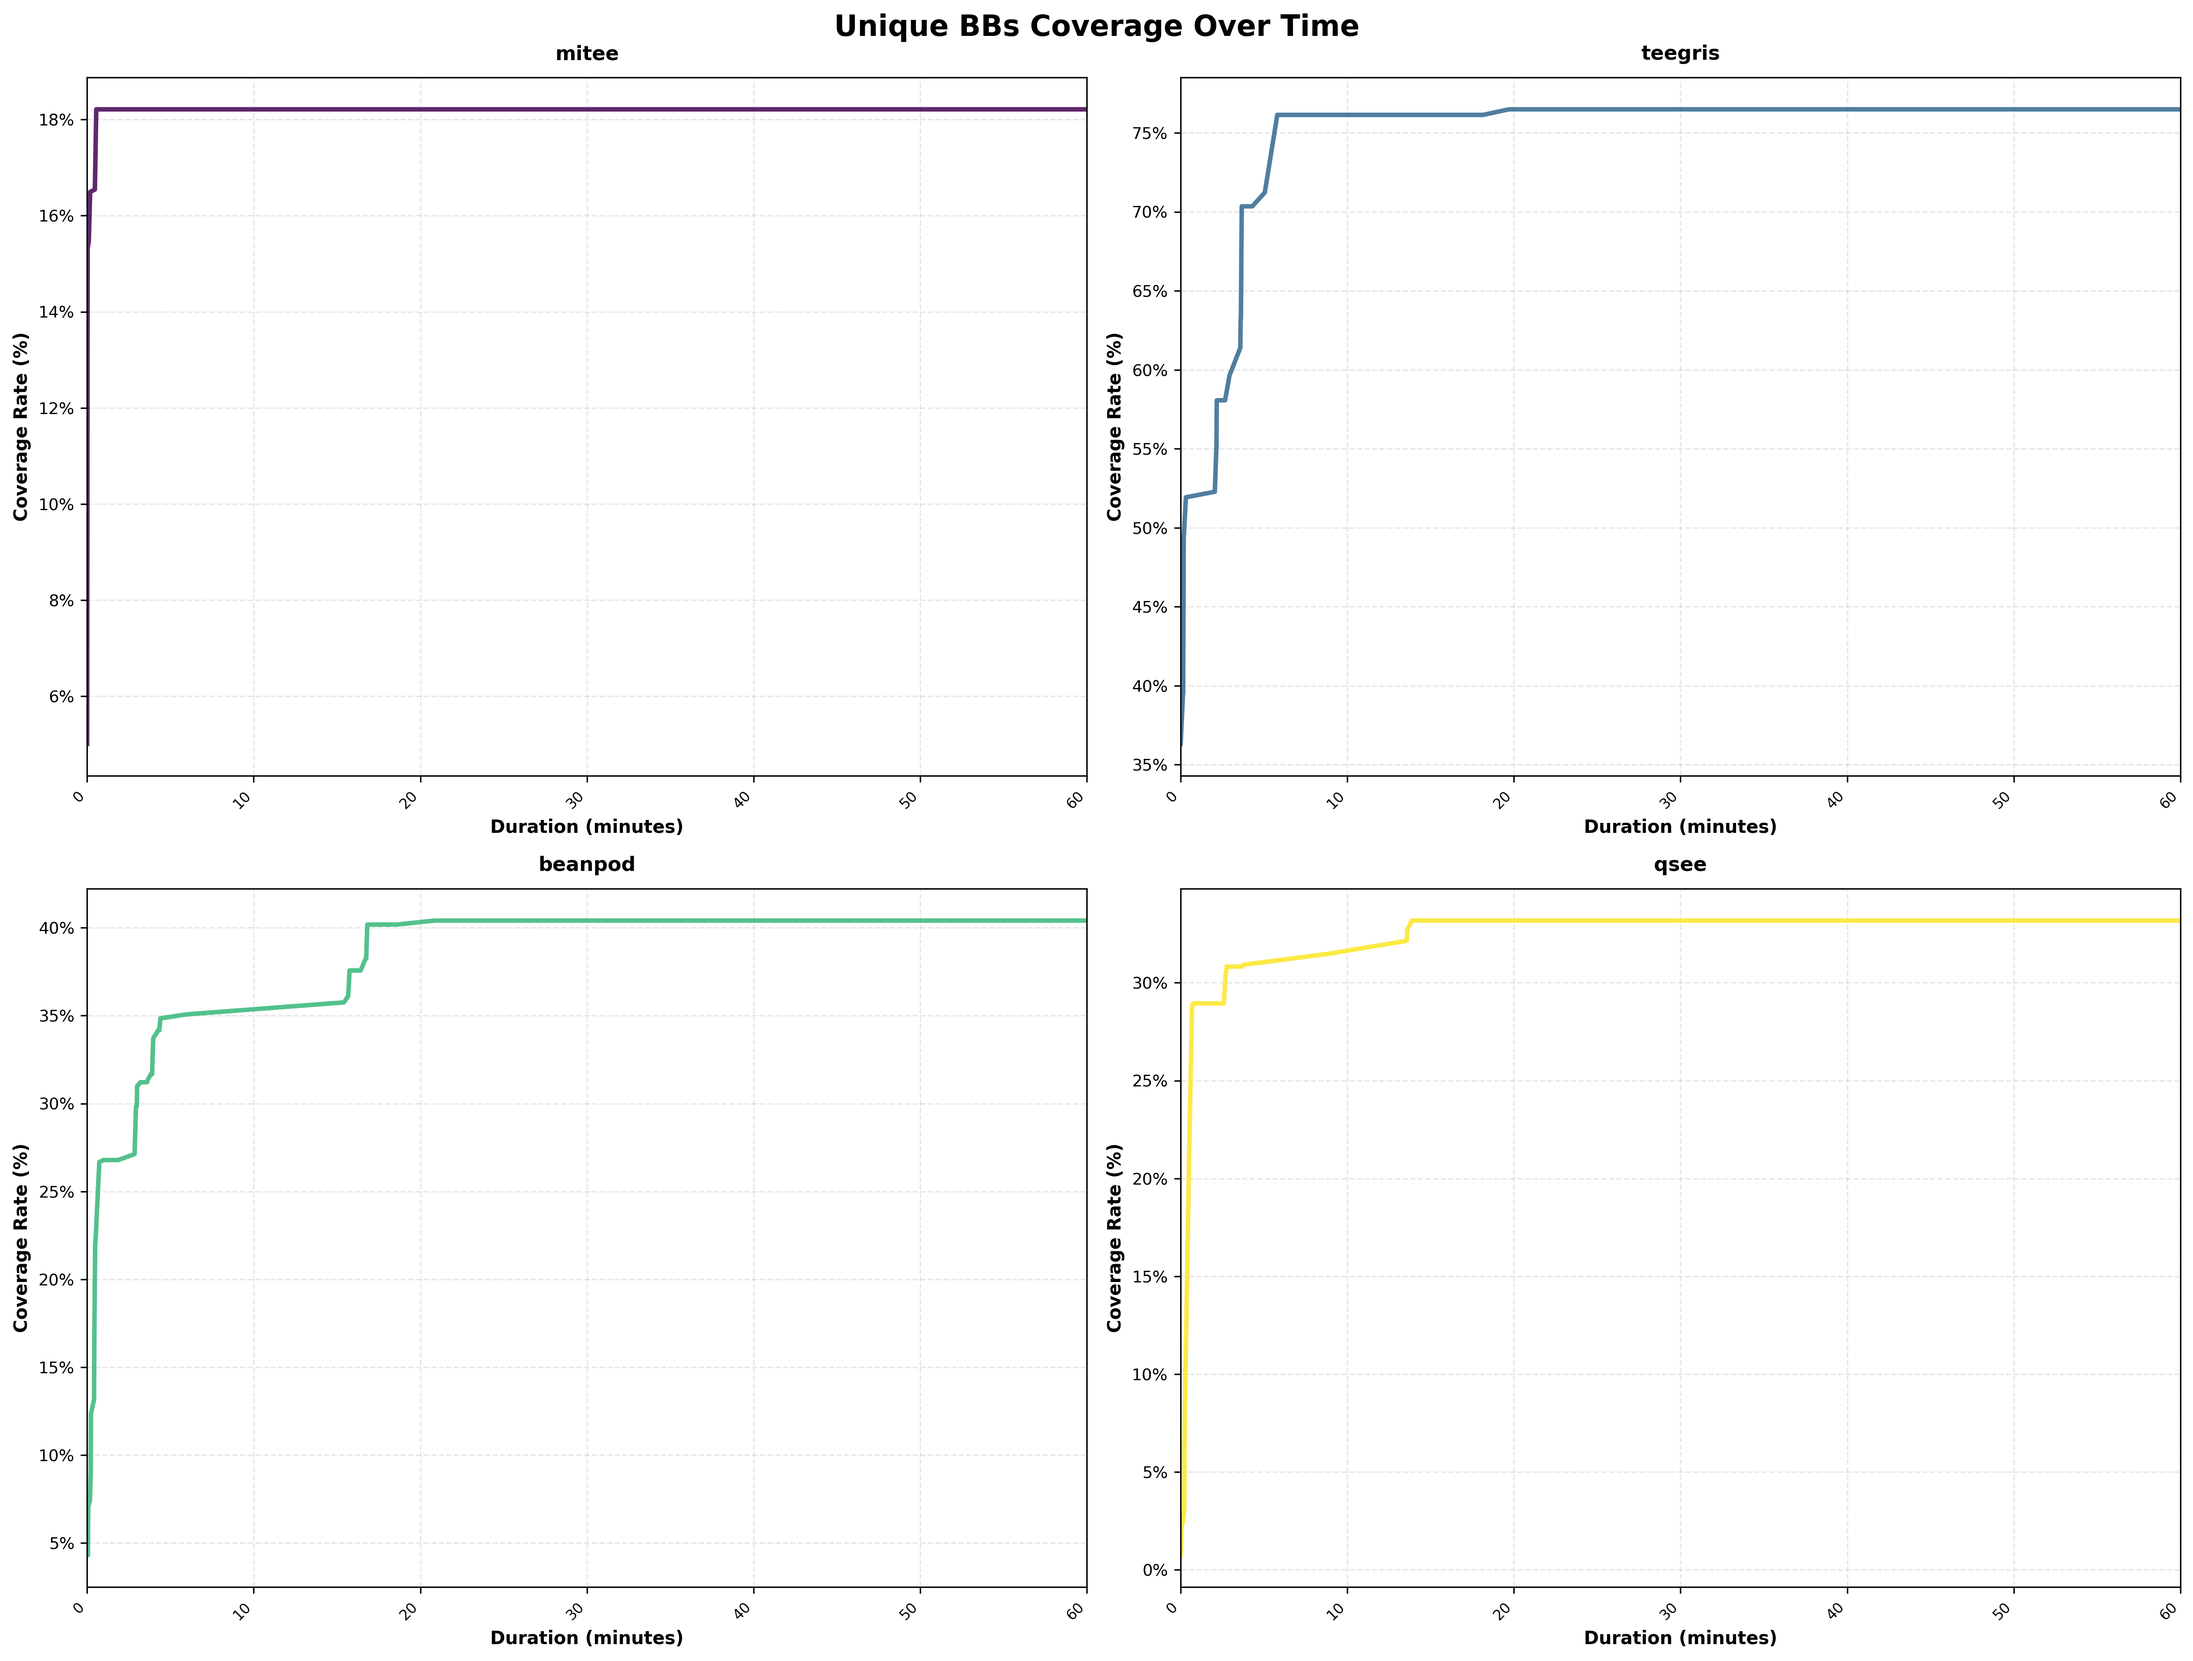
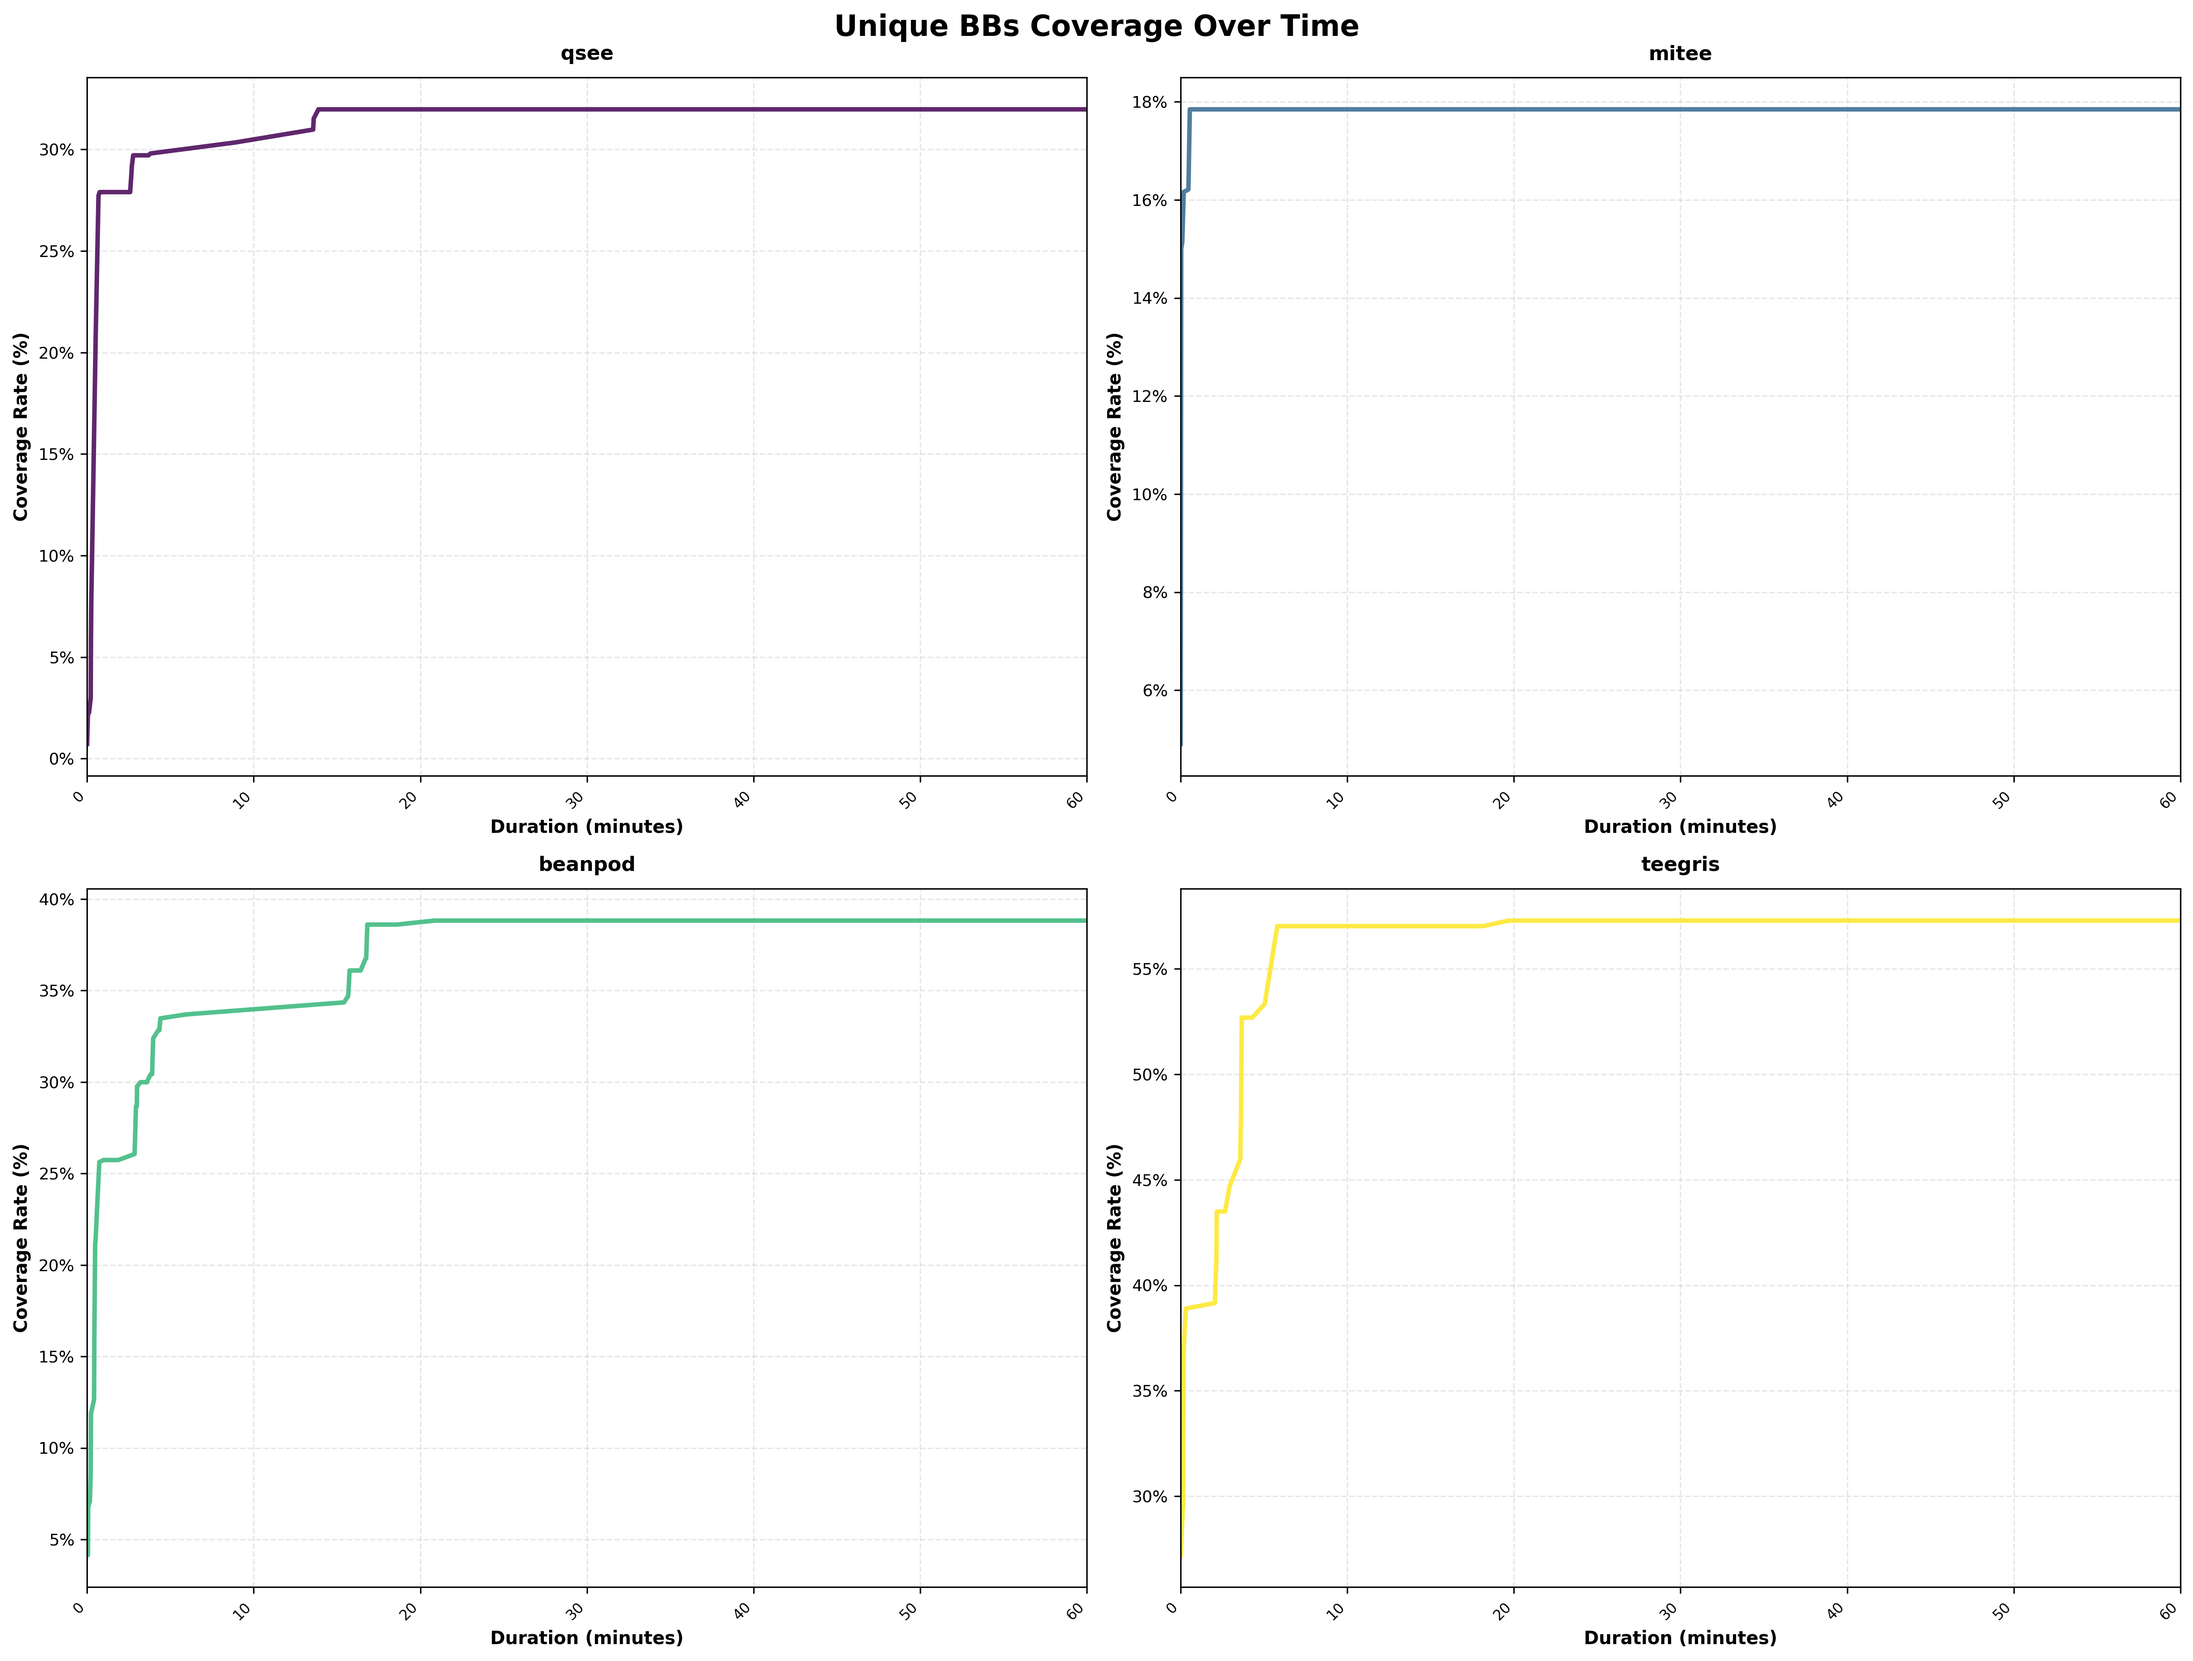
Stop coverage replays from growing the campaign they measure
Replaying an input always started the recorder, so every replay done to collect
coverage saved new suspicious inputs - and each of those yields new snapshots.
Generating Figure 4 therefore changed the campaign under it: the snapshot count
of beanpod/0801 went from 428 after Exploration to 1103 by the time
Fetch-Anchored Fuzzing enumerated them.

TAEMU_NO_RECORD=1 now replays without recording, and it is set everywhere a
replay is done for coverage only: E8's seed replays, and the container pool that
eval/graphs uses for --regen_coverage.

Verified end to end: a full ORG+DF coverage regeneration over the five harnesses
of a one hour campaign leaves every meta and snapshot count untouched.

Also in this change, for Figure 5 (eval/graphs):
* --fuzz_mode DF cannot work on its own - _worker needs accumulated_cov_bbs,
  which only the ORG pass fills; DF is now run as ALL
* a bare `except:` reported "something went wrong in DF snapshot processing" and
  hid the reason; it logs the exception now
* gather_suspicious_inputs_covs sliced the harness path at "TA_GP_emulator/";
  rfind returns -1 on any other checkout, so it indexed from character 14 of the
  absolute path and looked up a directory that cannot exist. It uses the path
  relative to TAEMU_ROOT now
* seeds recorded after deduplication have no coverage file, so every snapshot
  derived from them failed; E8 replays exactly the seeds of fuzzed snapshots
  first
[…]

diff --git a/ae/experiments/e8_figures.py b/ae/experiments/e8_figures.py
@@ -80,6 +80,39 @@ def collect_outputs(res_dir):
     return produced
 
 
+def regen_seed_cov(harnesses):
+    """Replay the Exploration seed of every fuzzed snapshot.
+
+    Figure 5 splits the blocks of a snapshot against the coverage of the seed
+    that produced it, so that seed needs a drcov file. Seeds recorded after the
+    deduplication pass (replaying inputs feeds the recorder again) have none,
+    which made every snapshot derived from such a seed fail.
+    """
+    jobs = set()
+    for h in harnesses:
+        df_dir = os.path.join(h, "df_fuzz")
+        if not os.path.isdir(df_dir):
+            continue
+        for snap in os.listdir(df_dir):
+            seed = "_".join(snap.split("_")[:-1])
+            seed_path = os.path.join(h, "in", "suspicious_inputs_replay", seed)
+            cov = os.path.join(h, "out", "cov", seed + ".cov")
+            if os.path.exists(seed_path) and not os.path.exists(cov):
+                jobs.add((h, seed_path))
+    jobs = sorted(jobs)
+    if not jobs:
+        return 0
+    ae.log(f"replaying {len(jobs)} snapshot seeds to collect their coverage")
+
+    def replay(job):
+        h, seed = job
+        ae.docker_run(f"./fuzz.sh '{ae.rel_to_emulator(h)}' '{ae.rel_to_emulator(seed)}'",
+                      timeout=600, env={"TAEMU_NO_RECORD": "1"})
+
+    ae.parallel(replay, jobs)
+    return len(jobs)
+
+
 def main():
     ap = argparse.ArgumentParser()
     ap.add_argument("--fuzz-mode", choices=["ORG", "DF", "ALL"], default="ORG",
@@ -103,6 +136,9 @@ def main():
     res_dir = os.path.join(ae.RESULTS_DIR, "e8_figures")
     os.makedirs(res_dir, exist_ok=True)
 
+    if args.regen_cov or args.fuzz_mode in ("DF", "ALL"):
+        regen_seed_cov(sorted(glob.glob(os.path.join(ae.REPO_DIR, "*", "harness", "ae_e*_*"))))
+
     ss_dir, n = backup_suspicious_covs(res_dir)
     if n == 0:
         ae.fail("no coverage of deduplicated Exploration inputs found - run "
@@ -110,9 +146,12 @@ def main():
         ae.write_report("e8_figures", {"checks": {"figures generated": False}})
         sys.exit(1)
 
+    # Figure 5 is built on top of the Exploration coverage (the ORG pass is what
+    # fills accumulated_cov_bbs), so DF is always run as ALL.
+    mode = "ALL" if args.fuzz_mode == "DF" else args.fuzz_mode
     cmd = [sys.executable, os.path.join(GRAPHS, "main.py"),
            "--path", ae.REPO_DIR, "--ss_cov_rdir", ss_dir,
-           "--fuzz_mode", args.fuzz_mode,
+           "--fuzz_mode", mode,
            "--max_timestamps", str(args.max_timestamps)]
     if args.regen_cov:
         cmd.append("--regen_coverage")
@@ -123,11 +162,11 @@ def main():
     if args.group_by == "tee":
         cmd += ["--org_group_field", "tee"]
     tas = args.tas
-    if tas is None and glob.glob(os.path.join(ae.REPO_DIR, "*", "harness", "ae_e1_*")):
+    if tas is None and glob.glob(os.path.join(ae.REPO_DIR, "*", "harness", "ae_e*_*")):
         # Restrict to the harnesses of this evaluation, so the figure describes
         # the campaign that was just run and not a mixture with the shipped one.
-        tas = ["ae_e1_"]
-        ae.log("restricting to the harnesses of this evaluation (--tas ae_e1_)")
+        tas = ["ae_e"]
+        ae.log("restricting to the harnesses of this evaluation (--tas ae_e)")
     if tas:
         cmd += ["--tas"] + tas
 

diff --git a/eval/graphs/graphing.py b/eval/graphs/graphing.py
@@ -13,6 +13,10 @@ from concurrent.futures import ThreadPoolExecutor, as_completed
 from concurrent.futures import ProcessPoolExecutor, as_completed
 from typing import Optional, Callable
 import os
+import sys
+
+sys.path.insert(0, os.path.dirname(os.path.dirname(os.path.abspath(__file__))))
+import taemu_env
 
 def naming_change(names: list[str] | str) -> list[str] | str:
     names_map = {
@@ -397,7 +401,11 @@ def gather_suspicious_inputs_covs(df_bar_key: str, df_group_finfo: GroupedFuzzin
     # align with x axis, so should be id or harness_path
     suspicious_inputs_bbs = list()
     harness_path = df_group_finfo.raw_fuzzing_info.harness_path
-    harness_name = harness_path[harness_path.rfind("TA_GP_emulator/")+len("TA_GP_emulator/"):]
+    # The backup mirrors the repository tree, so the lookup key is the harness
+    # path relative to the repository root. Slicing at "TA_GP_emulator/" broke
+    # silently for any other checkout: rfind returns -1 and the slice starts at
+    # index 14 of the absolute path.
+    harness_name = os.path.relpath(harness_path, taemu_env.repo_root())
     suspicious_inputs_covs = f'{bk_suspicious_inputs_cov_rdir}/{harness_name}/out/cov' 
     if bar_field_name == "id":
         file = df_bar_key.split("_")[-2] + ".cov"
@@ -584,8 +592,11 @@ def df_control_flow_graph(
                     part_two_segments.append(part_two_segment_cnt)   
                     part_three_segments.append(part_three_segment_cnt)
                     coverage_denominators.append(coverage_denominator)
-                except:
-                    print(f'something went wrong in DF snapshot processing')
+                except Exception as e:
+                    # Do not swallow the reason: the most common one is that the
+                    # ORG pass has not run (it fills accumulated_cov_bbs), i.e.
+                    # the figure needs --fuzz_mode ALL rather than DF.
+                    logger.warning(f"DF snapshot processing failed: {e!r}")
                 
                 # Store data
                 bar_labels.append(

diff --git a/emulator/emulate/__main__.py b/emulator/emulate/__main__.py
@@ -293,7 +293,7 @@ if __name__ == "__main__":
         ql.hook_code(unicorn_why)
         
     
-    if args.fuzz or args.fuzz_replay:
+    if (args.fuzz or args.fuzz_replay) and not os.environ.get("TAEMU_NO_RECORD"):
         # Create Redis queue
         try:
             record_q: RedisQueue = create_redis_queue(
@@ -309,9 +309,12 @@ if __name__ == "__main__":
             )
             record_q = None
     else:
+        # TAEMU_NO_RECORD=1 replays an input without feeding the recorder. Used
+        # when a seed is replayed only to collect its coverage: recording would
+        # add new suspicious inputs and grow the campaign that is being measured.
         record_q = None
-        
-        
+
+
     def launch_taemu(curr_record_q):
         print(
             f"[+] Loaded TA {ta_name} for TEE {TEE} with Qiling {ql.arch.type}/{ql.os.type}"

diff --git a/ae/experiments/e2_faf.py b/ae/experiments/e2_faf.py
@@ -45,7 +45,17 @@ def source_harnesses(source, selected):
 
 
 def stage(src, snaps):
-    """Copy harness + the selected snapshots' seeds into ae_e2_<name>."""
+    """Where to run Fetch-Anchored Fuzzing for this harness.
+
+    Snapshots that came from our own Exploration run (ae_e1_*) are fuzzed *in
+    place*: the plotting pipeline links Exploration and Fetch-Anchored Fuzzing
+    by harness directory (eval/graphs/collect_cov.py:linking), so out/ and
+    df_fuzz/ of one campaign have to live in the same harness. Only the
+    campaign data shipped with the artifact is copied, so it stays untouched.
+    """
+    if os.path.basename(src).startswith("ae_e1_"):
+        return src
+
     tee_harness = os.path.dirname(src)
     name = os.path.basename(src)
     if name.startswith("ae_e1_"):

diff --git a/eval/graphs/main.py b/eval/graphs/main.py
@@ -85,7 +85,10 @@ def main(
         with DockerPool(
             image_name=taemu_env.image(),
             num_containers=num_containers,
-            param_str=f"--network host -v {path}:/srv -w /srv/emulator -v /dev/shm:/dev/shm --ipc=host --shm-size=5g ",
+            # TAEMU_NO_RECORD: replaying seeds for coverage must not record new
+            # suspicious inputs, otherwise collecting the data changes it.
+            param_str=f"--network host -v {path}:/srv -w /srv/emulator -v /dev/shm:/dev/shm "
+                      f"--ipc=host --shm-size=5g -e TAEMU_NO_RECORD=1 ",
         ):
             time.sleep(1)
             gen_coverage_files(
